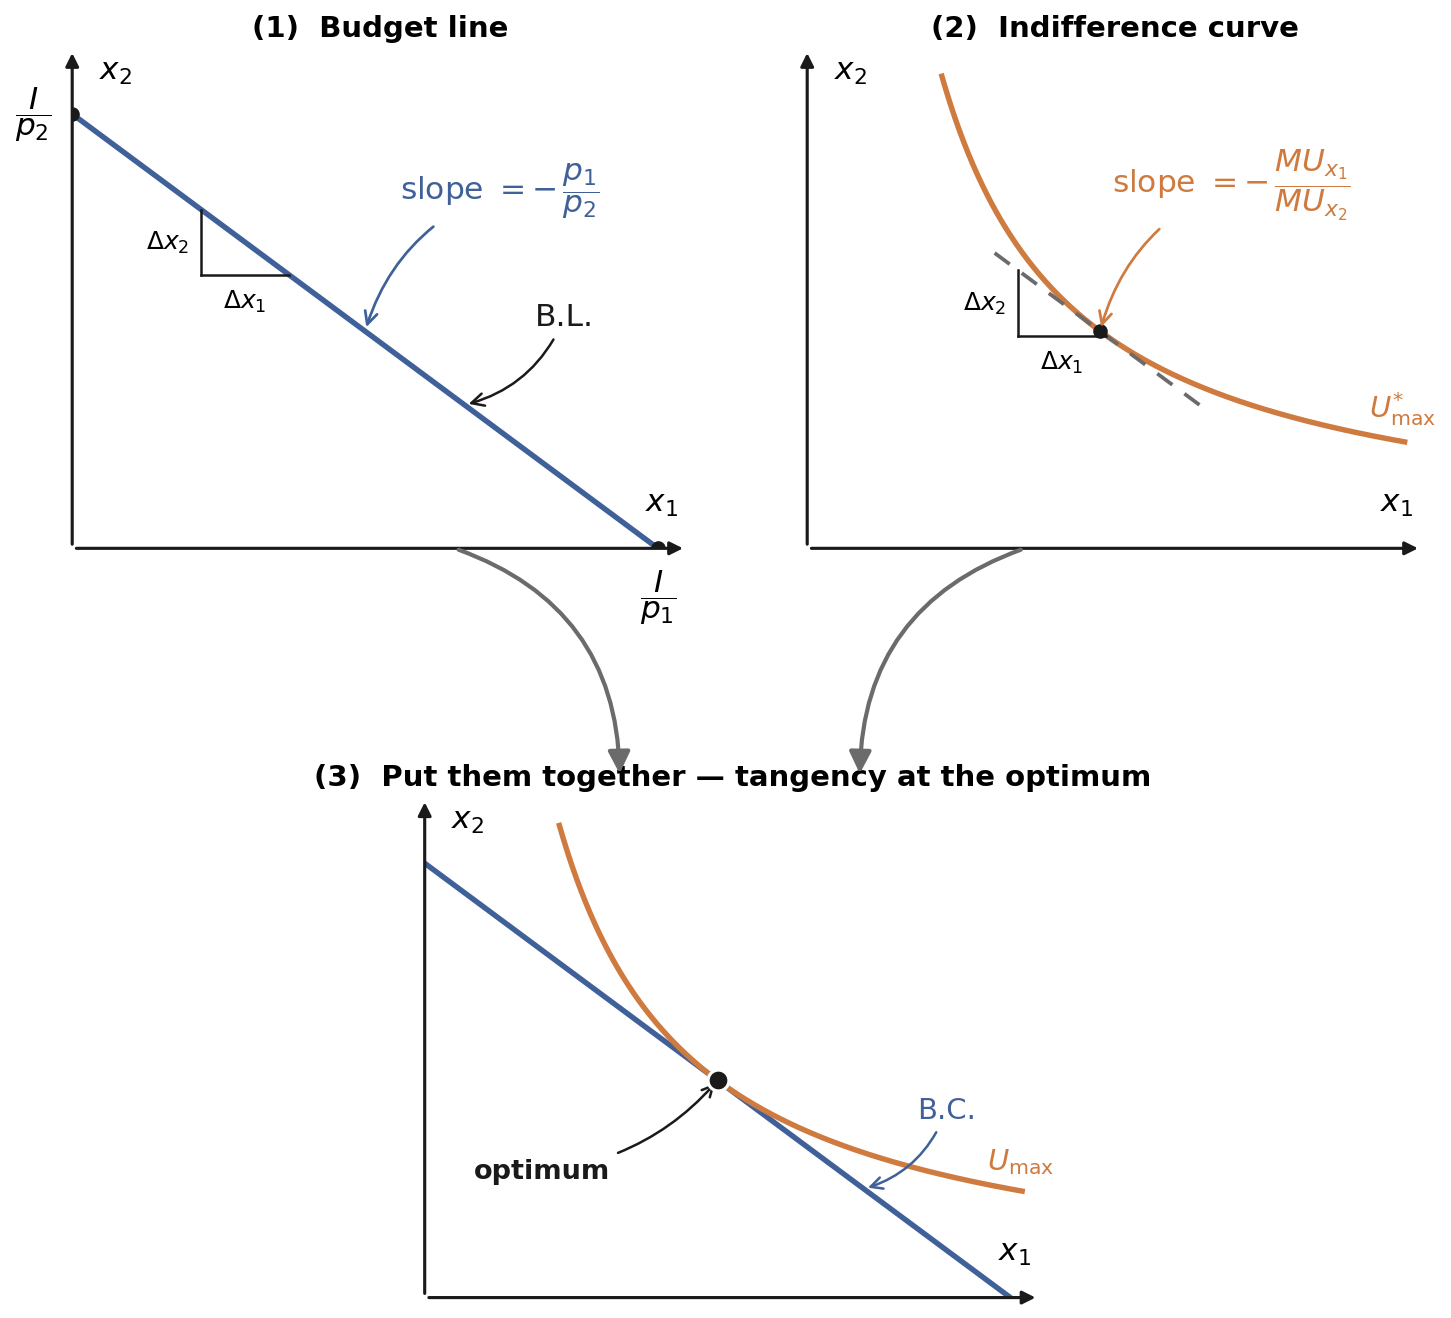
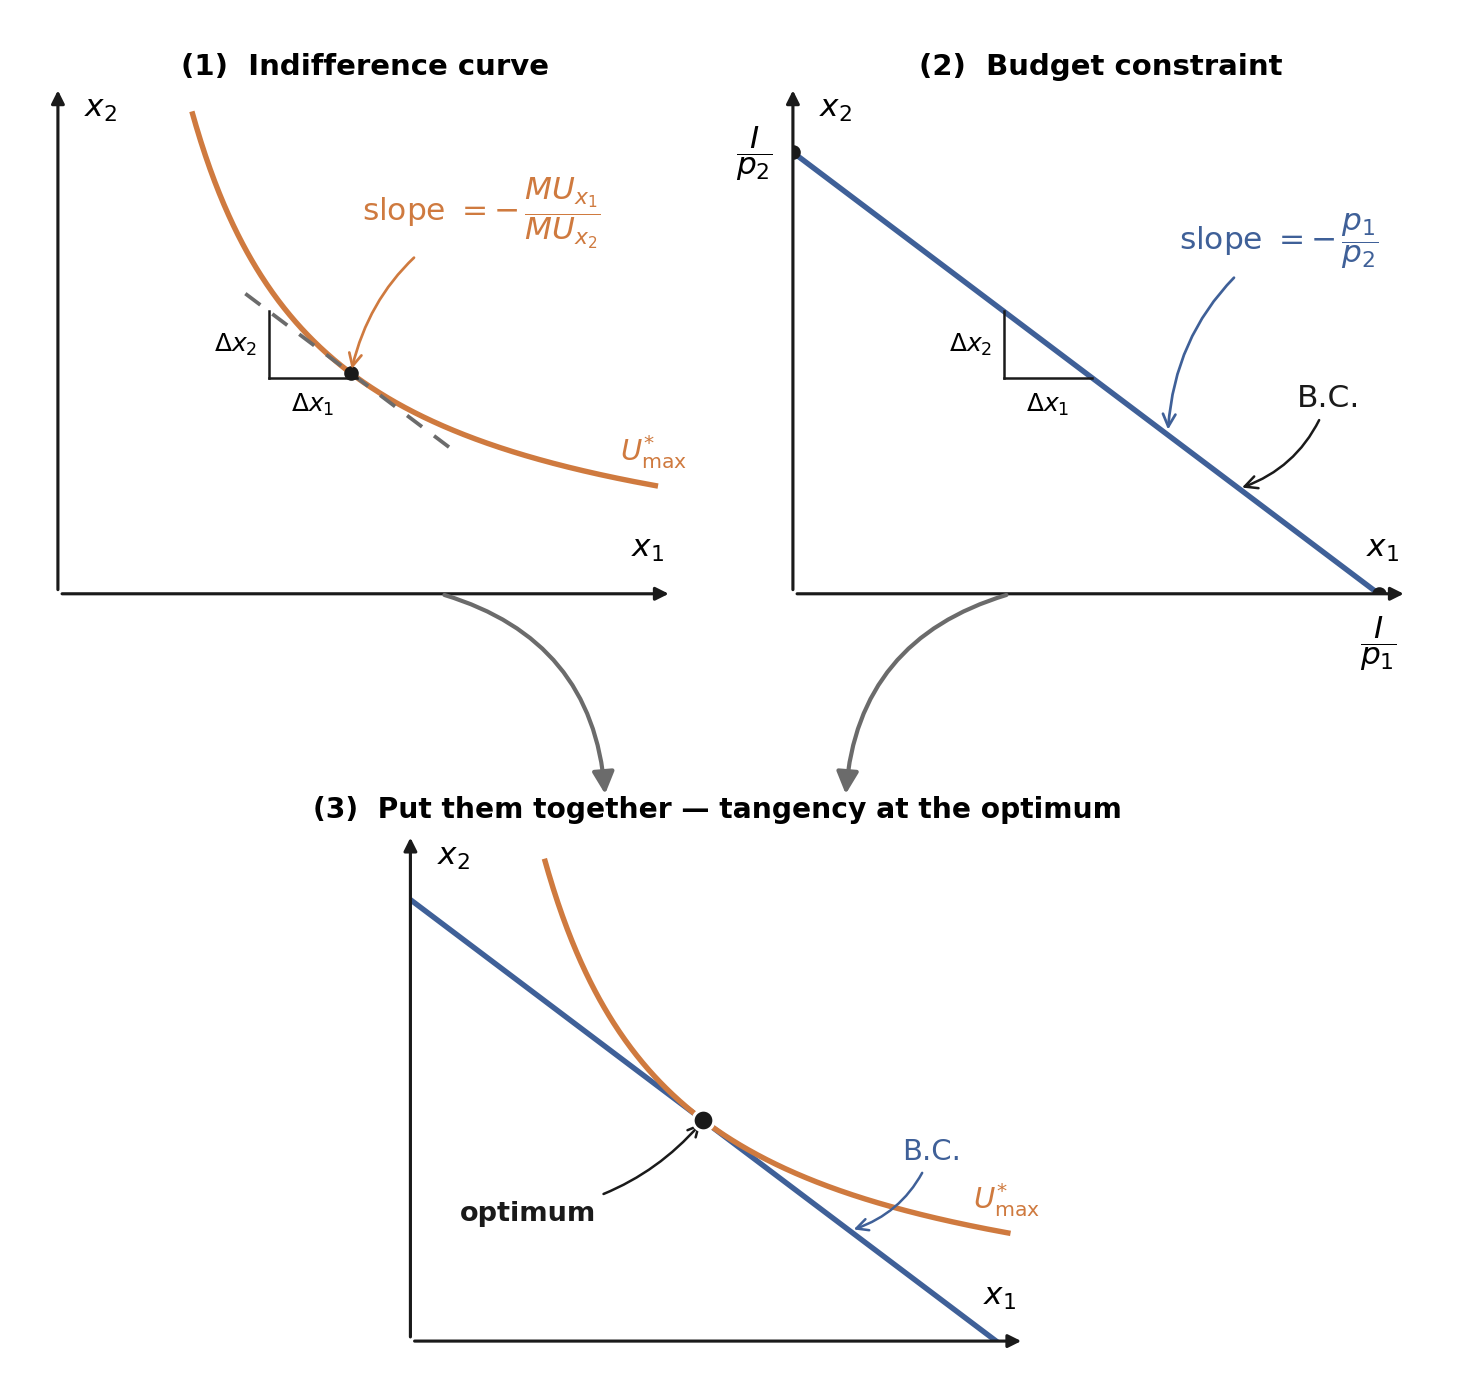
Ch05 deck: refine slope-form tangency figure
- Swap panel order: (1) indifference curve, (2) budget constraint
- Budget panel labeled B.C. (not B.L.); panel 3 IC labeled U*_max
- Align the delta-x1/delta-x2 slope triangles to the same position in both panels
- More export padding; swap the (1)/(2) flow text on the slide to match
- sync index.html

diff --git a/econ2316/ch05-constrained-choice/index.html b/econ2316/ch05-constrained-choice/index.html
@@ -1643,7 +1643,7 @@
         <div style="background: #f8f6f3; padding: 10px 14px; border-radius: 10px; border-left: 4px solid var(--secondary-color); margin-bottom: 8px;">
           <p style="font-size: 11.5pt; color: var(--secondary-color); font-weight: 700; text-transform: uppercase; letter-spacing: 0.5px; margin: 0 0 4px;">Read it as a flow</p>
           <p style="font-size: 11.5pt; line-height: 1.5; margin: 0;">
-            <strong>(1)</strong> the <strong style="color:#3f6098;">budget line</strong> sets the <em>market's</em> trade-off, slope \(-p_1/p_2\). &nbsp;<strong>(2)</strong> the <strong style="color:#cf7a3f;">indifference curve</strong> sets the <em>consumer's</em> trade-off, slope \(-MU_1/MU_2\) (the MRS). &nbsp;<strong>(3)</strong> the best affordable bundle is where the two are <strong>tangent</strong>.
+            <strong>(1)</strong> the <strong style="color:#cf7a3f;">indifference curve</strong> sets the <em>consumer's</em> trade-off, slope \(-MU_1/MU_2\) (the MRS). &nbsp;<strong>(2)</strong> the <strong style="color:#3f6098;">budget line</strong> sets the <em>market's</em> trade-off, slope \(-p_1/p_2\). &nbsp;<strong>(3)</strong> the best affordable bundle is where the two are <strong>tangent</strong>.
           </p>
         </div>
         <div class="key-result" style="margin: 0;">

diff --git a/econ2316/ch05-constrained-choice/presentation.html b/econ2316/ch05-constrained-choice/presentation.html
@@ -1643,7 +1643,7 @@
         <div style="background: #f8f6f3; padding: 10px 14px; border-radius: 10px; border-left: 4px solid var(--secondary-color); margin-bottom: 8px;">
           <p style="font-size: 11.5pt; color: var(--secondary-color); font-weight: 700; text-transform: uppercase; letter-spacing: 0.5px; margin: 0 0 4px;">Read it as a flow</p>
           <p style="font-size: 11.5pt; line-height: 1.5; margin: 0;">
-            <strong>(1)</strong> the <strong style="color:#3f6098;">budget line</strong> sets the <em>market's</em> trade-off, slope \(-p_1/p_2\). &nbsp;<strong>(2)</strong> the <strong style="color:#cf7a3f;">indifference curve</strong> sets the <em>consumer's</em> trade-off, slope \(-MU_1/MU_2\) (the MRS). &nbsp;<strong>(3)</strong> the best affordable bundle is where the two are <strong>tangent</strong>.
+            <strong>(1)</strong> the <strong style="color:#cf7a3f;">indifference curve</strong> sets the <em>consumer's</em> trade-off, slope \(-MU_1/MU_2\) (the MRS). &nbsp;<strong>(2)</strong> the <strong style="color:#3f6098;">budget line</strong> sets the <em>market's</em> trade-off, slope \(-p_1/p_2\). &nbsp;<strong>(3)</strong> the best affordable bundle is where the two are <strong>tangent</strong>.
           </p>
         </div>
         <div class="key-result" style="margin: 0;">
